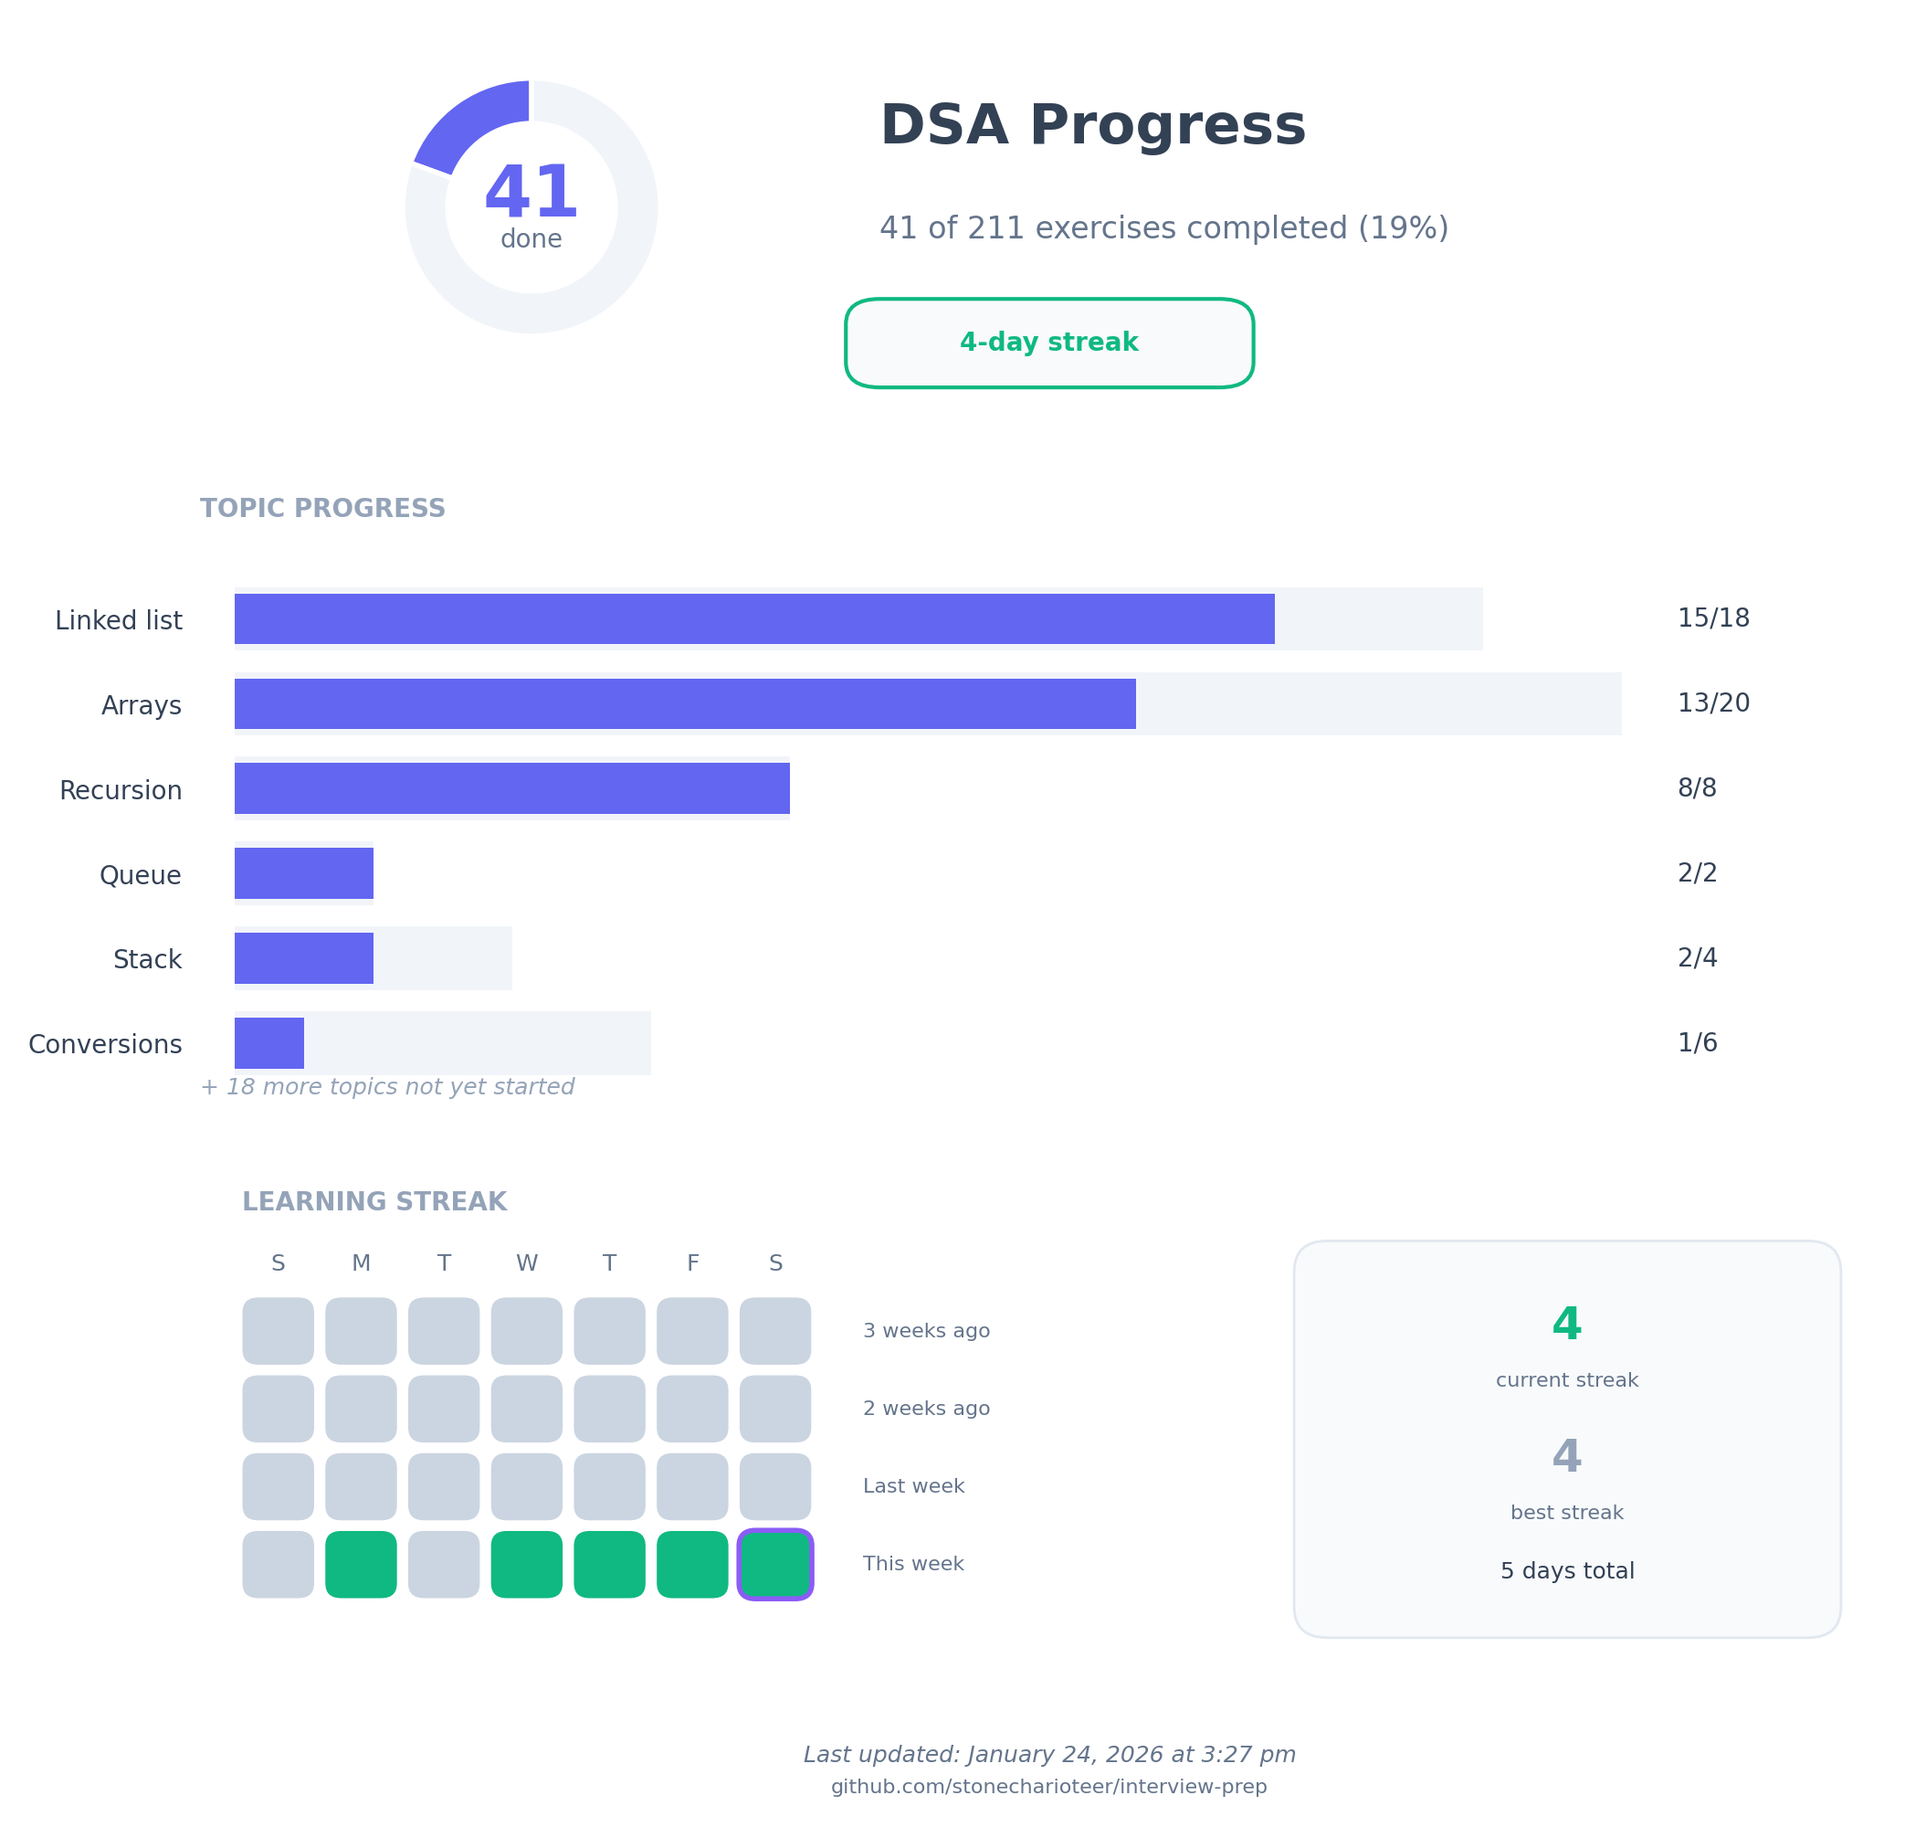
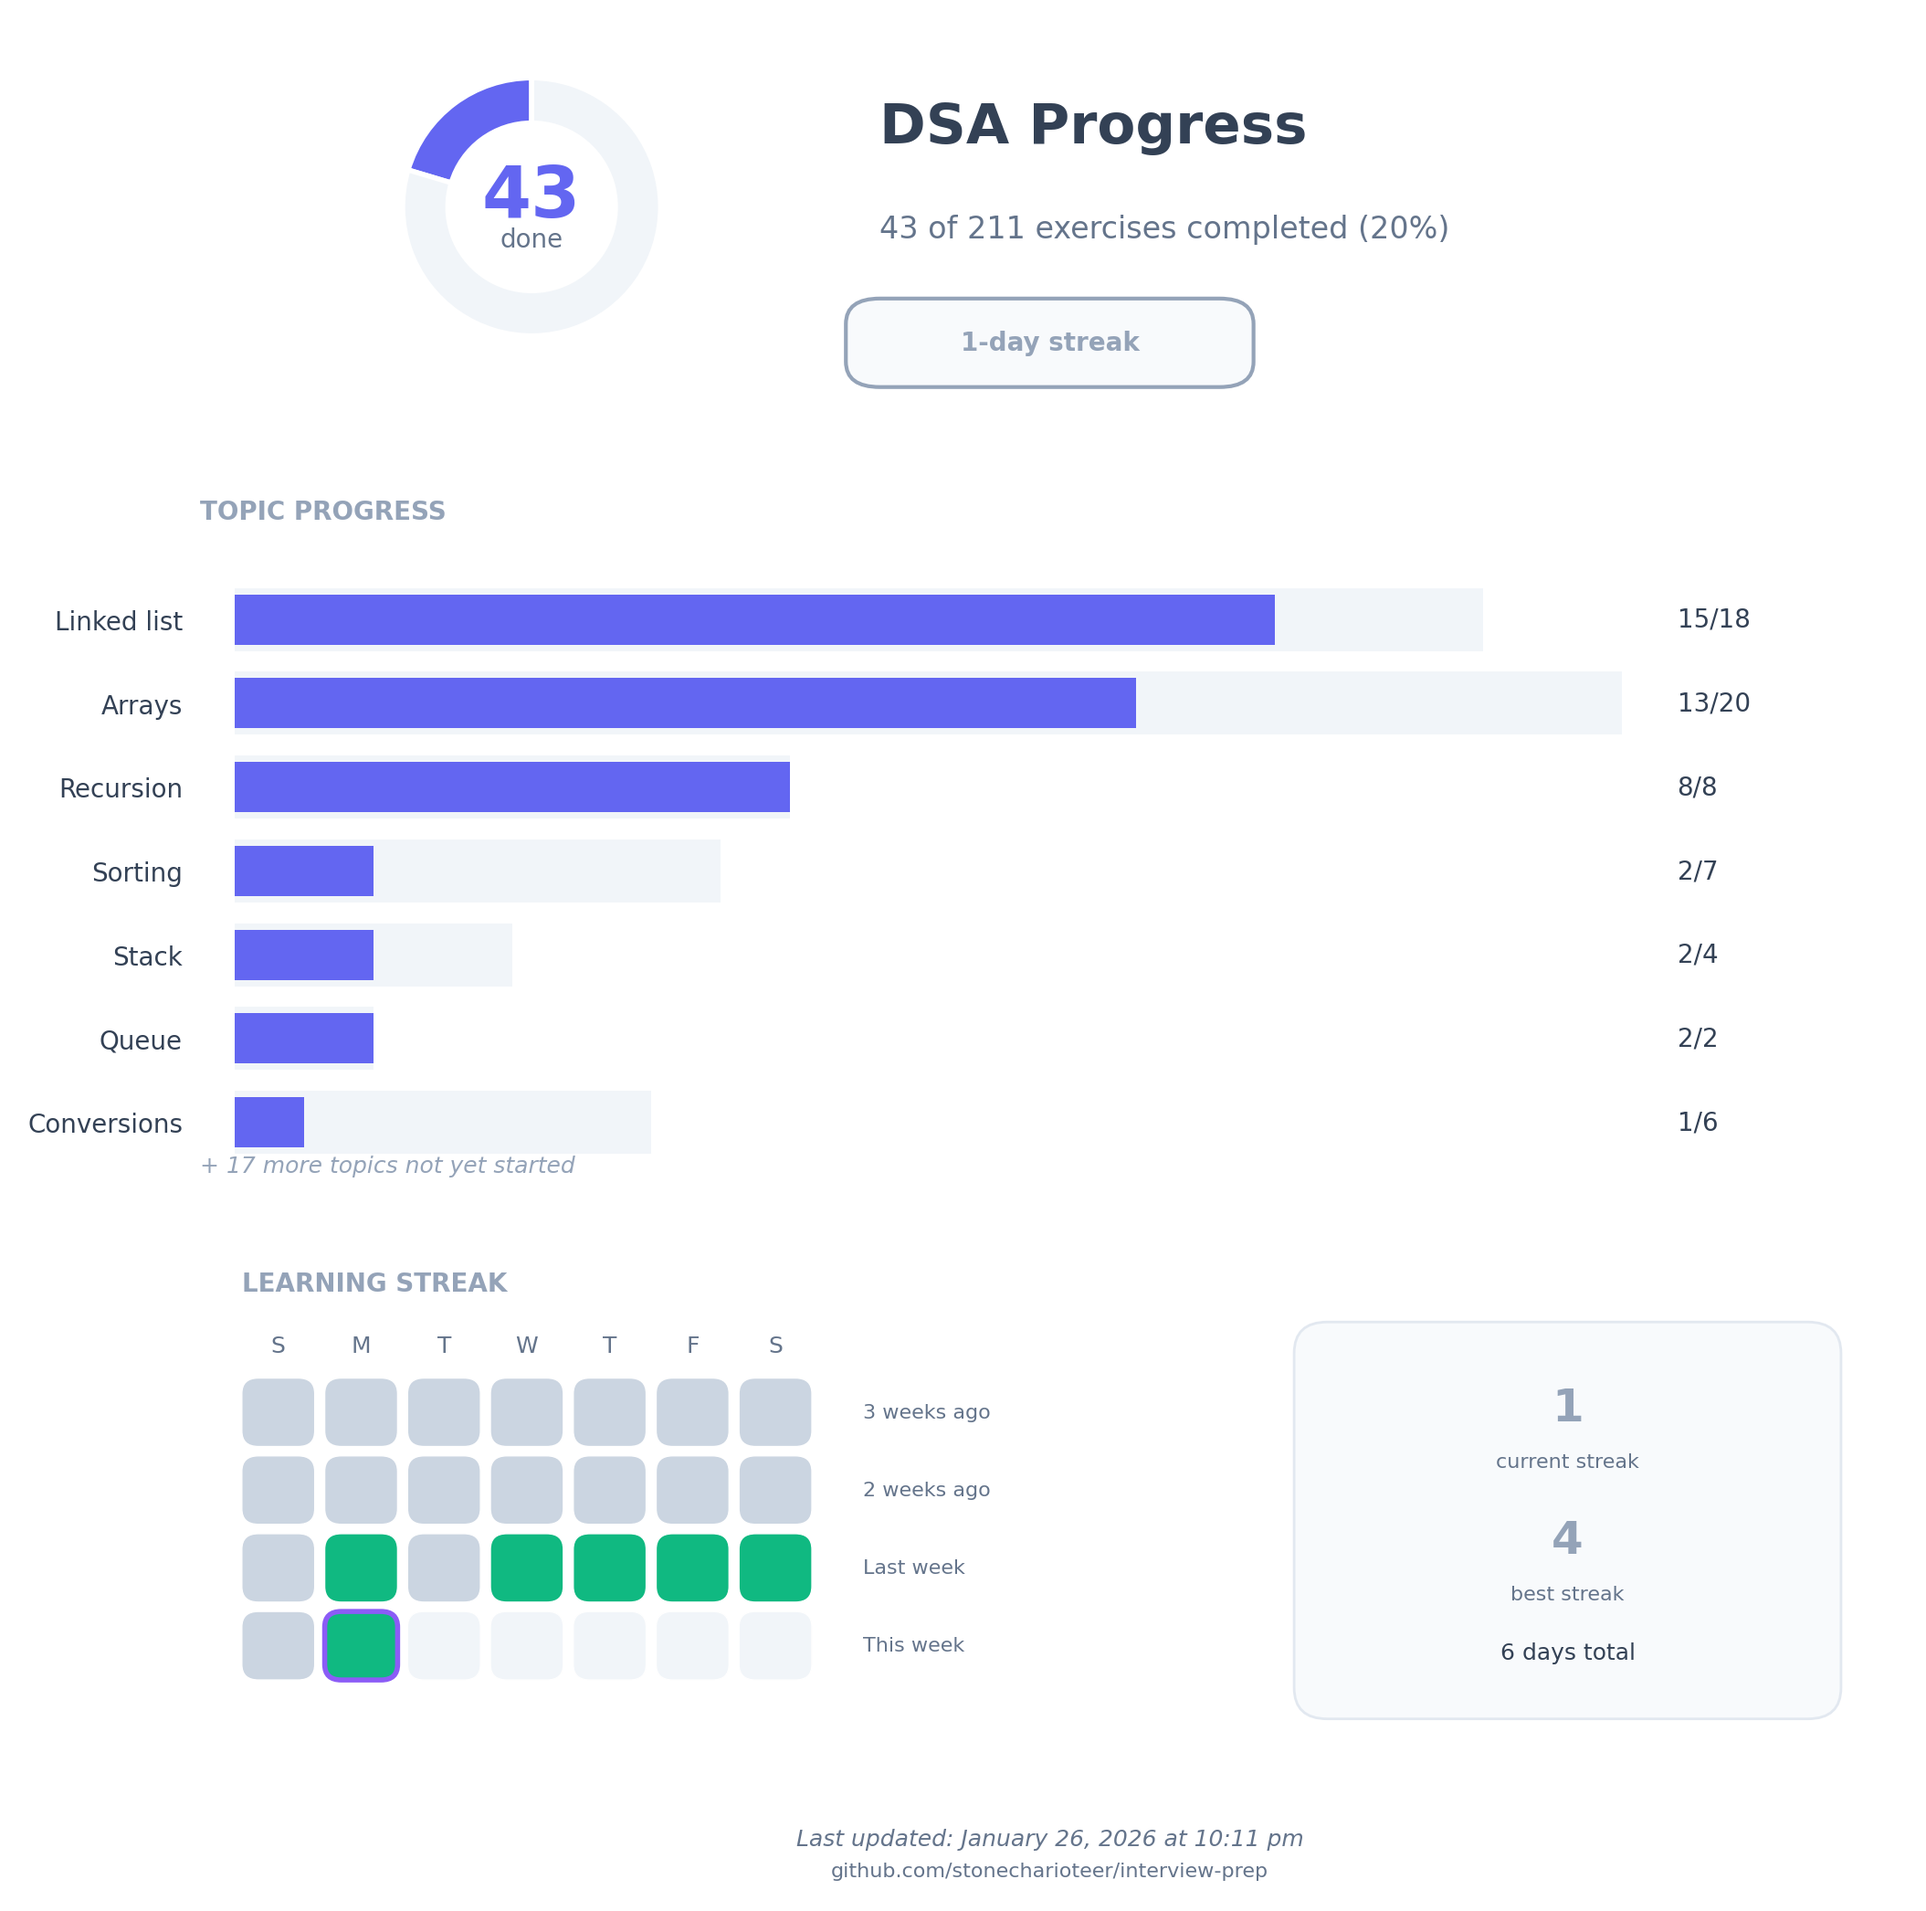
solve: insertion sort, update sorting test questions for randomness

diff --git a/python/test/test_2026_sorting.py b/python/test/test_2026_sorting.py
@@ -1,3 +1,5 @@
+import random
+
 import pytest
 
 from src.year_2026 import sorting
@@ -7,103 +9,170 @@ pytestmark = pytest.mark.sorting
 
 class TestBubbleSort:
     def test_simple(self):
-        arr = [3, 1, 4, 1, 5]
+        length = random.randint(5, 20)
+        arr = [random.randint(-100, 100) for _ in range(length)]
+        expected = sorted(arr)
         sorting.bubble_sort(arr)
-        assert arr == [1, 1, 3, 4, 5]
+        assert arr == expected
 
     def test_already_sorted(self):
-        arr = [1, 2, 3, 4, 5]
+        length = random.randint(5, 20)
+        arr = sorted([random.randint(-100, 100) for _ in range(length)])
+        expected = list(arr)
         sorting.bubble_sort(arr)
-        assert arr == [1, 2, 3, 4, 5]
+        assert arr == expected
 
     def test_reverse_sorted(self):
-        arr = [5, 4, 3, 2, 1]
+        length = random.randint(5, 20)
+        arr = sorted([random.randint(-100, 100) for _ in range(length)], reverse=True)
+        expected = sorted(arr)
         sorting.bubble_sort(arr)
-        assert arr == [1, 2, 3, 4, 5]
+        assert arr == expected
 
     def test_single_element(self):
-        arr = [42]
+        value = random.randint(-1000, 1000)
+        arr = [value]
         sorting.bubble_sort(arr)
-        assert arr == [42]
+        assert arr == [value]
+
+    def test_random(self):
+        length = random.randint(10, 100)
+        arr = [random.randint(-1000, 1000) for _ in range(length)]
+        expected = sorted(arr)
+        sorting.bubble_sort(arr)
+        assert arr == expected
 
 
 @pytest.mark.xfail(reason="Not implemented yet", raises=NotImplementedError)
 class TestSelectionSort:
     def test_simple(self):
-        arr = [3, 1, 4, 1, 5]
+        length = random.randint(5, 20)
+        arr = [random.randint(-100, 100) for _ in range(length)]
+        expected = sorted(arr)
         sorting.selection_sort(arr)
-        assert arr == [1, 1, 3, 4, 5]
+        assert arr == expected
 
     def test_with_negatives(self):
-        arr = [3, -1, 4, -1, 5]
+        length = random.randint(5, 20)
+        arr = [
+            random.randint(-100, -1) if i % 2 == 0 else random.randint(1, 100)
+            for i in range(length)
+        ]
+        expected = sorted(arr)
         sorting.selection_sort(arr)
-        assert arr == [-1, -1, 3, 4, 5]
+        assert arr == expected
+
+    def test_random(self):
+        length = random.randint(10, 100)
+        arr = [random.randint(-1000, 1000) for _ in range(length)]
+        expected = sorted(arr)
+        sorting.selection_sort(arr)
+        assert arr == expected
 
 
 class TestInsertionSort:
     def test_simple(self):
-        arr = [3, 1, 4, 1, 5]
+        length = random.randint(5, 20)
+        arr = [random.randint(-100, 100) for _ in range(length)]
+        expected = sorted(arr)
         sorting.insertion_sort(arr)
-        assert arr == [1, 1, 3, 4, 5]
+        assert arr == expected
 
     def test_nearly_sorted(self):
-        arr = [1, 2, 4, 3, 5]
+        length = random.randint(10, 30)
+        arr = sorted([random.randint(-100, 100) for _ in range(length)])
+        # Swap a few adjacent pairs to make it nearly sorted
+        swaps = random.randint(1, max(1, length // 5))
+        for _ in range(swaps):
+            i = random.randint(0, length - 2)
+            arr[i], arr[i + 1] = arr[i + 1], arr[i]
+        expected = sorted(arr)
         sorting.insertion_sort(arr)
-        assert arr == [1, 2, 3, 4, 5]
+        assert arr == expected
+
+    def test_random(self):
+        length = random.randint(10, 100)
+        arr = [random.randint(-1000, 1000) for _ in range(length)]
+        expected = sorted(arr)
+        sorting.insertion_sort(arr)
+        assert arr == expected
 
 
 @pytest.mark.xfail(reason="Not implemented yet", raises=NotImplementedError)
 class TestMergeSort:
     def test_simple(self):
-        assert sorting.merge_sort([3, 1, 4, 1, 5]) == [1, 1, 3, 4, 5]
+        length = random.randint(5, 20)
+        arr = [random.randint(-100, 100) for _ in range(length)]
+        assert sorting.merge_sort(arr) == sorted(arr)
 
     def test_empty(self):
         assert sorting.merge_sort([]) == []
 
     def test_single(self):
-        assert sorting.merge_sort([42]) == [42]
+        value = random.randint(-1000, 1000)
+        assert sorting.merge_sort([value]) == [value]
 
-    def test_large(self):
-        import random
-
-        arr = [random.randint(0, 1000) for _ in range(100)]
+    def test_random(self):
+        length = random.randint(10, 100)
+        arr = [random.randint(-1000, 1000) for _ in range(length)]
         assert sorting.merge_sort(arr) == sorted(arr)
 
 
 @pytest.mark.xfail(reason="Not implemented yet", raises=NotImplementedError)
 class TestQuickSort:
     def test_simple(self):
-        assert sorting.quick_sort([3, 1, 4, 1, 5]) == [1, 1, 3, 4, 5]
+        length = random.randint(5, 20)
+        arr = [random.randint(-100, 100) for _ in range(length)]
+        assert sorting.quick_sort(arr) == sorted(arr)
 
     def test_empty(self):
         assert sorting.quick_sort([]) == []
 
     def test_duplicates(self):
-        assert sorting.quick_sort([5, 5, 5, 5]) == [5, 5, 5, 5]
+        length = random.randint(5, 20)
+        value = random.randint(-100, 100)
+        arr = [value] * length
+        assert sorting.quick_sort(arr) == arr
+
+    def test_random(self):
+        length = random.randint(10, 100)
+        arr = [random.randint(-1000, 1000) for _ in range(length)]
+        assert sorting.quick_sort(arr) == sorted(arr)
 
 
 @pytest.mark.xfail(reason="Not implemented yet", raises=NotImplementedError)
 class TestCountingSort:
     def test_simple(self):
-        assert sorting.counting_sort([3, 1, 4, 1, 5]) == [1, 1, 3, 4, 5]
+        length = random.randint(5, 20)
+        arr = [random.randint(0, 100) for _ in range(length)]
+        assert sorting.counting_sort(arr) == sorted(arr)
 
     def test_zeros(self):
-        assert sorting.counting_sort([0, 0, 1, 0]) == [0, 0, 0, 1]
+        length = random.randint(5, 20)
+        arr = [
+            0 if random.random() < 0.5 else random.randint(1, 10) for _ in range(length)
+        ]
+        assert sorting.counting_sort(arr) == sorted(arr)
+
+    def test_random(self):
+        length = random.randint(10, 100)
+        arr = [random.randint(0, 1000) for _ in range(length)]
+        assert sorting.counting_sort(arr) == sorted(arr)
 
 
 @pytest.mark.xfail(reason="Not implemented yet", raises=NotImplementedError)
 class TestRadixSort:
     def test_simple(self):
-        assert sorting.radix_sort([170, 45, 75, 90, 802, 24, 2, 66]) == [
-            2,
-            24,
-            45,
-            66,
-            75,
-            90,
-            170,
-            802,
-        ]
+        length = random.randint(5, 20)
+        arr = [random.randint(0, 1000) for _ in range(length)]
+        assert sorting.radix_sort(arr) == sorted(arr)
 
     def test_single_digit(self):
-        assert sorting.radix_sort([3, 1, 4, 1, 5]) == [1, 1, 3, 4, 5]
+        length = random.randint(5, 20)
+        arr = [random.randint(0, 9) for _ in range(length)]
+        assert sorting.radix_sort(arr) == sorted(arr)
+
+    def test_random(self):
+        length = random.randint(10, 100)
+        arr = [random.randint(0, 10000) for _ in range(length)]
+        assert sorting.radix_sort(arr) == sorted(arr)

diff --git a/python/src/year_2026/sorting.py b/python/src/year_2026/sorting.py
@@ -17,13 +17,15 @@ def selection_sort(arr: List[int]) -> None:
     raise NotImplementedError
 
 
-def insertion_sort(arr):
+def insertion_sort(arr: List[int]):
     """Sort arr in-place using insertion sort."""
-    sorted_index = 0
-    while sorted_index < len(arr) - 1:
-        for ix, i in enumerate(arr[sorted_index + 1 :]):
-            if arr[sorted_index] <= arr[ix]:
-                sorted_index = i
+    print(f"Original Array {arr}")
+    for i in range(len(arr)):
+        for j in range(i, 0, -1):
+            if arr[j - 1] > arr[j]:
+                arr[j - 1], arr[j] = arr[j], arr[j - 1]
+            else:
+                break
 
 
 def merge_sort(arr):

diff --git a/exercises.md b/exercises.md
@@ -1,6 +1,6 @@
 # Exercise List
 
-**Progress: 42/211 exercises completed in Python (19%)**
+**Progress: 43/211 exercises completed in Python (20%)**
 
 1. Arrays: `min.` 🐍[x] 🦀[ ] 🟨[ ]
 2. Arrays: `max.` 🐍[x] 🦀[ ] 🟨[ ]
@@ -34,7 +34,7 @@
 30. Sorting: `bubble_sort (understand swapping, in-place).` 🐍[x] 🦀[ ] 🟨[ ]
 31. Sorting: `selection_sort (find min, swap to front).` 🐍[ ] 🦀[ ] 🟨[ ]
 32. Linked list: `remove_first(n).` 🐍[x] 🦀[ ] 🟨[ ]
-33. Sorting: `insertion_sort (shift and insert).` 🐍[ ] 🦀[ ] 🟨[ ]
+33. Sorting: `insertion_sort (shift and insert).` 🐍[x] 🦀[ ] 🟨[ ]
 34. Stack: `evaluate_postfix (reverse polish notation).` 🐍[ ] 🦀[ ] 🟨[ ]
 35. Bits: `check if number is power of two.` 🐍[ ] 🦀[ ] 🟨[ ]
 36. Bits: `count set bits (Hamming weight).` 🐍[ ] 🦀[ ] 🟨[ ]
